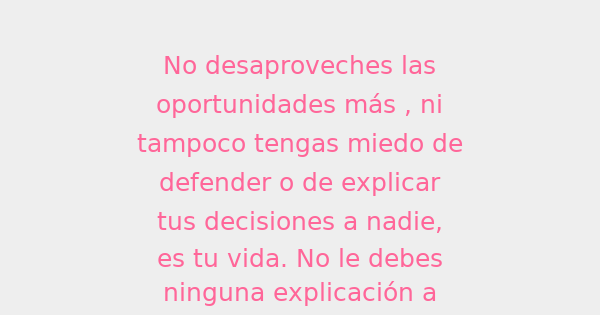
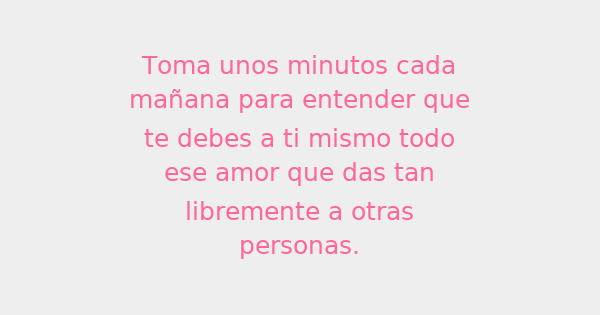
cfg

diff --git a/_posts/2015-2-7-Signos-del-Zodiaco.md b/_posts/2015-2-7-Signos-del-Zodiaco.md
@@ -1,14 +1,14 @@
 ---
 layout: horoscopo_de_hoy
-title: Hóroscopo de hoy 14 de julio 2026
-description: Horóscopos del dia de hoy 14 de julio 2026 Astrologia, Horoscopos univision todos los signos del zodiaco. Esperanza Gracia.
+title: Hóroscopo de hoy 15 de julio 2026
+description: Horóscopos del dia de hoy 15 de julio 2026 Astrologia, Horoscopos univision todos los signos del zodiaco. Esperanza Gracia.
 permalink: /horoscopo-de-hoy/
 redirect_from: /2015/02/signos-del-zodiaco.html
 ogimg: /images/diario.png
 sitemap:
  priority: 1
  changefreq: 'daily'
- lastmod: 2026-07-14
+ lastmod: 2026-07-15
 ---
-El trígono entre Mercurio y Neptuno les ofrece una solución intuitiva a los misterios, en caso de que tengas algunos bajo la Luna Nueva en Escorpión. Esta noche, es hora de experimentar un déjà vu que tiene el pequeño tono efímero de tus sueños imperfectamente recordados. Ten cuidado al reaccionar a lo que es real y lo que no lo es.
+El sextil entre el Sol y Júpiter promete oportunidades y fáciles éxitos el día de hoy. Fluye tan naturalmente como lo hace un espíritu libre. Cuando la Luna y Mercurio aspectan al transformador Plutón esta noche, si una puerta se cierra (o ha cerrado), otra se abre (con variadas opciones detrás de ella). ¡Sueños dulces y proféticos se materializan más tarde!
 ¿Quieres saber como sera tu dia? Enterate que tienen los astros preparado para vos y organiza tu dia segun tu horoscopo diario gratis. Elejí tu signo mas abajo y podras conocer como es tu hóroscopo en el amor, trabajo, vida personal.